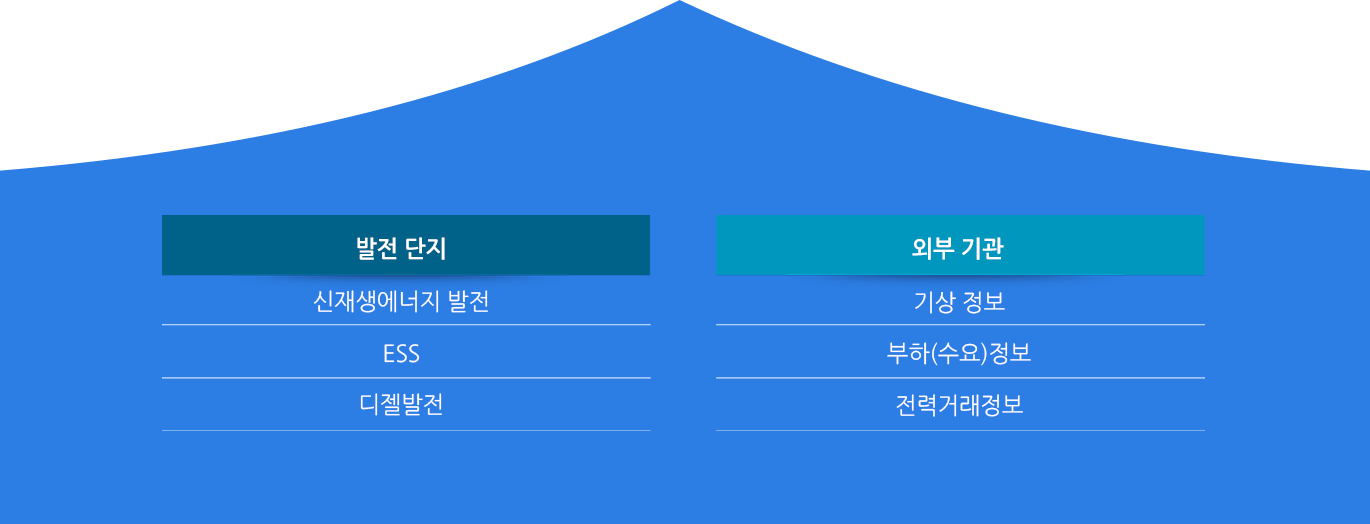
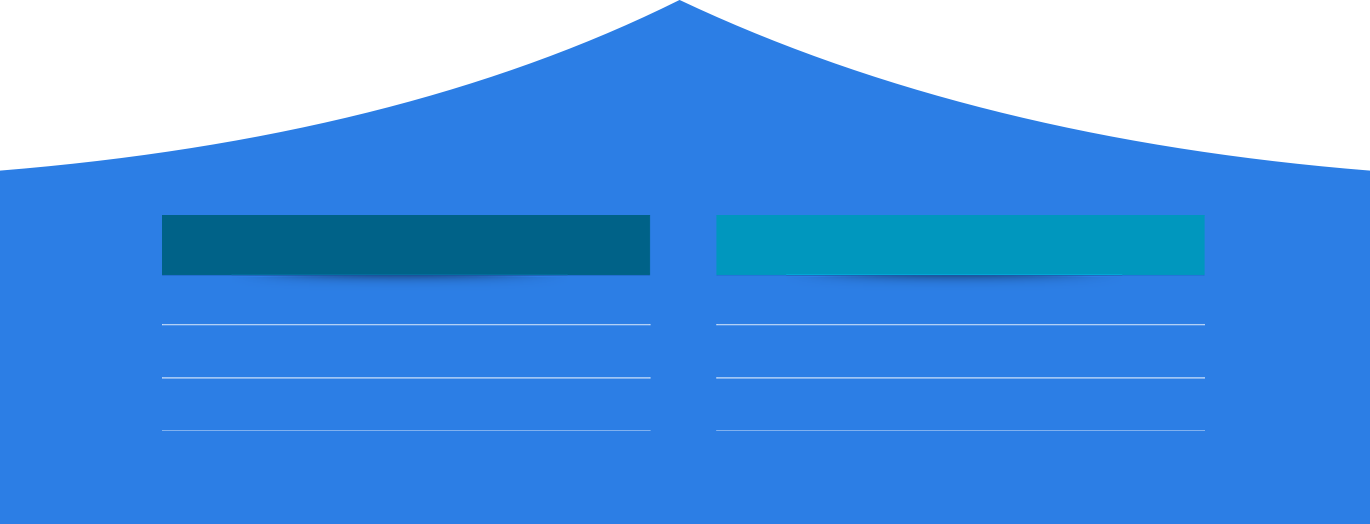
비즈니스

diff --git a/pages/business.html b/pages/business.html
@@ -50,7 +50,7 @@
 
         <!-- start of main -->
         <main class="base-contents business">
-            <div class="visual">
+            <div class="visual" id="cont21">
                 <p class="cont-txt">
                     <strong class="basic-tit01">What does <br>HUREM do?</strong>
                     Lorem Ipsum is simply dummy text of the printing <br>and typesetting industry. Lorem Ipsum has been the industry's
@@ -62,7 +62,7 @@
                 </div>
             </div>
 
-            <section class="cont1" id="cont21">
+            <section class="cont1" id="cont22">
                 <h2 class="basic-tit01">Hurem Business</h2>
                 <p class="cont-txt">Human & Renewable Energy Management</p>
                 <div class="cont-bs">
@@ -97,14 +97,14 @@
                 </div>
             </section>
             
-            <section class="cont2" id="cont22">
+            <section class="cont2" id="cont23">
                 <h2 class="basic-tit02">풍력 태양광 등 복수 재생에너지를 활용한 e-Prosumer</h2>
                 <div class="hide">
                     풍력발전, 바이오매스발전, 태양광발전을 ESS에 저장 후 전력망에 공급하고 산업체와 가정용에서 사용
                 </div>
             </section>
             
-            <section class="cont3" id="cont23">
+            <section class="cont3" id="cont24">
                 <h2 class="basic-tit02">건축물 전력 피크 절감 및 에너지 사용 효율화</h2>
                 <p class="cont-txt">Lorem Ipsum is simply dummy text of the printing and typesetting <br>industry. Lorem Ipsum has been the industry's.</p>
                 <div class="cont-img">
@@ -119,7 +119,7 @@
                 </div>
             </section>
             
-            <section class="cont4" id="cont24">
+            <section class="cont4" id="cont25">
                 <h2 class="basic-tit02">EV 배터리 재활용 급속충전 시스템 구축</h2>
                 <p class="cont-txt">Lorem Ipsum is simply dummy text of the printing and typesetting <br>industry. Lorem Ipsum has been the industry's.</p>
                 <div class="cont-img">
@@ -129,7 +129,7 @@
                 <p class="cont-txt">Lorem Ipsum is simply dummy text of the printing and typesetting industry. Lorem Ipsum has been the industry's standard dummy text ever since the 1500s, when an unknown printer took a galley of type and scrambled it to make a type specimen book. It has survived not only five centuries, but also the leap into electronic typesetting, remaining essentially unchanged. It was popularised in the 1960s with the release of Letraset sheets containing Lorem Ipsum passages, and more ecently with.</p>
             </section>
             
-            <section class="cont5" id="cont25">
+            <section class="cont5" id="cont26">
                 <div class="bs-system">
                     <h2 class="basic-tit01">HUREM <br>Monitoring System</h2>
                     <p class="cont-txt">Lorem Ipsum is simply dummy text of the printing and typesetting industry. Lorem Ipsum has been the industry's standard dummy text ever since the 1500s, when an unknown printer took a galley of type and scrambled it to make a type specimen book. It has survived not only five centuries, but also the leap into electronic typesetting, remaining essentially unchanged. It was popularised in the 1960s with the release of Letraset sheets containing Lorem Ipsum passages, and more ecently with desktop publishing software like Aldus PageMaker including versions of Lorem Ipsum.</p>
@@ -137,7 +137,20 @@
                 <div class="cont-img">
                     <img src="/images/img_business04.png" alt="">
                 </div>
-                <div class="bs-bg"></div>
+                <div class="bs-info">
+                    <dl>
+                        <dt>발전 단지</dt>
+                        <dd>신재생에너지 발전</dd>
+                        <dd>ESS</dd>
+                        <dd>디젤발전</dd>
+                    </dl>
+                    <dl>
+                        <dt>외부 기관</dt>
+                        <dd>기상 정보</dd>
+                        <dd>부하(수요)정보</dd>
+                        <dd>전력거래정보</dd>
+                    </dl>
+                </div>
             </section>
         </div>
     </main>

diff --git a/css/page/sub.css b/css/page/sub.css
@@ -4,10 +4,12 @@
     font-weight: 900;
     color: #2c7ee5;
 }
+
 .cont-txt {
     font-size: 15px;
     color: #8c9395;
     line-height: 21px;
+    letter-spacing: -0.01em;
 }
 
 .base-contants {}
@@ -157,17 +159,21 @@
 .certification .basic-tit01 {
     padding-top: 120px;
 }
+
 .certification .cont-txt {
     margin-top: 15px;
 }
+
 .partner {
     height: 494px;
     text-align: center;
     background: url(/images/img_company4.jpg) 0 0 no-repeat;
 }
+
 .partner .basic-tit01 {
     padding-top: 70px;
 }
+
 .partner .cont-txt {
     margin-top: 15px;
 }
@@ -207,6 +213,10 @@
     margin-bottom: 10px;
     font-size: 48px;
     line-height: 1;
+    text-align: left;
+}
+
+.business .visual .cont-txt {
     text-align: left;
 }
 
@@ -274,6 +284,7 @@
     position: relative;
     display: inline-block;
     width: 272px;
+    margin: 0 2px;
     padding-top: 246px;
     background: #fff;
 }
@@ -313,20 +324,23 @@
 }
 
 .business .cont-bs [class*="bs"]:hover .bs-hover {
-    display: block;
+    opacity: 1;
+    transition: 0.5s all;
 }
 
 .business .cont-bs .bs-hover {
-    display: none;
+    opacity: 0;
+    transition: 0.5s all;
     position: absolute;
     top: -30px;
     left: -30px;
     width: 120%;
-    height: 425px;
+    height: 390px;
     padding: 80px 30px 100px;
     background: #2c7ee5;
     color: #fff;
     z-index: 1;
+    box-shadow: 0 0 10px rgba(0, 0, 0, 0.4)
 }
 
 .business .cont-bs .bs-hover p {
@@ -390,7 +404,7 @@
 .business .cont3 .cont-img strong em {
     font-size: 15px;
     font-style: normal;
-    vertical-align: middle;
+    vertical-align: top;
 }
 
 .business .cont4 {
@@ -411,11 +425,14 @@
 }
 
 .business .cont5 {
-    padding: 125px 150px 0;
+    padding: 115px 150px 0;
 }
+
+.business .cont5 .bs-system {}
 
 .business .cont5 .bs-system .basic-tit01 {
     text-align: left;
+    line-height: 1.2;
 }
 
 .business .cont5 .bs-system p {
@@ -428,4 +445,29 @@
     padding-right: 50%;
     height: 420px;
     background: url(/images/bg_business03.png) 100% 0 no-repeat;
+}
+
+.business .cont5 .bs-info {
+    margin: 0 -150px;
+    height: 524px;
+    padding: 235px 132px 0;
+    background: url(/images/bg_business04.png) 0 bottom no-repeat;
+}
+
+.business .cont5 .bs-info dl {
+    display: inline-block;
+    width: 490px;
+    margin: 0 30px;
+    color: #fff;
+    font-size: 23px;
+    text-align: center;
+}
+
+.business .cont5 .bs-info dt {
+    margin-bottom: 16px;
+    font-weight: 600;
+}
+
+.business .cont5 .bs-info dd {
+    line-height: 52px;
 }
